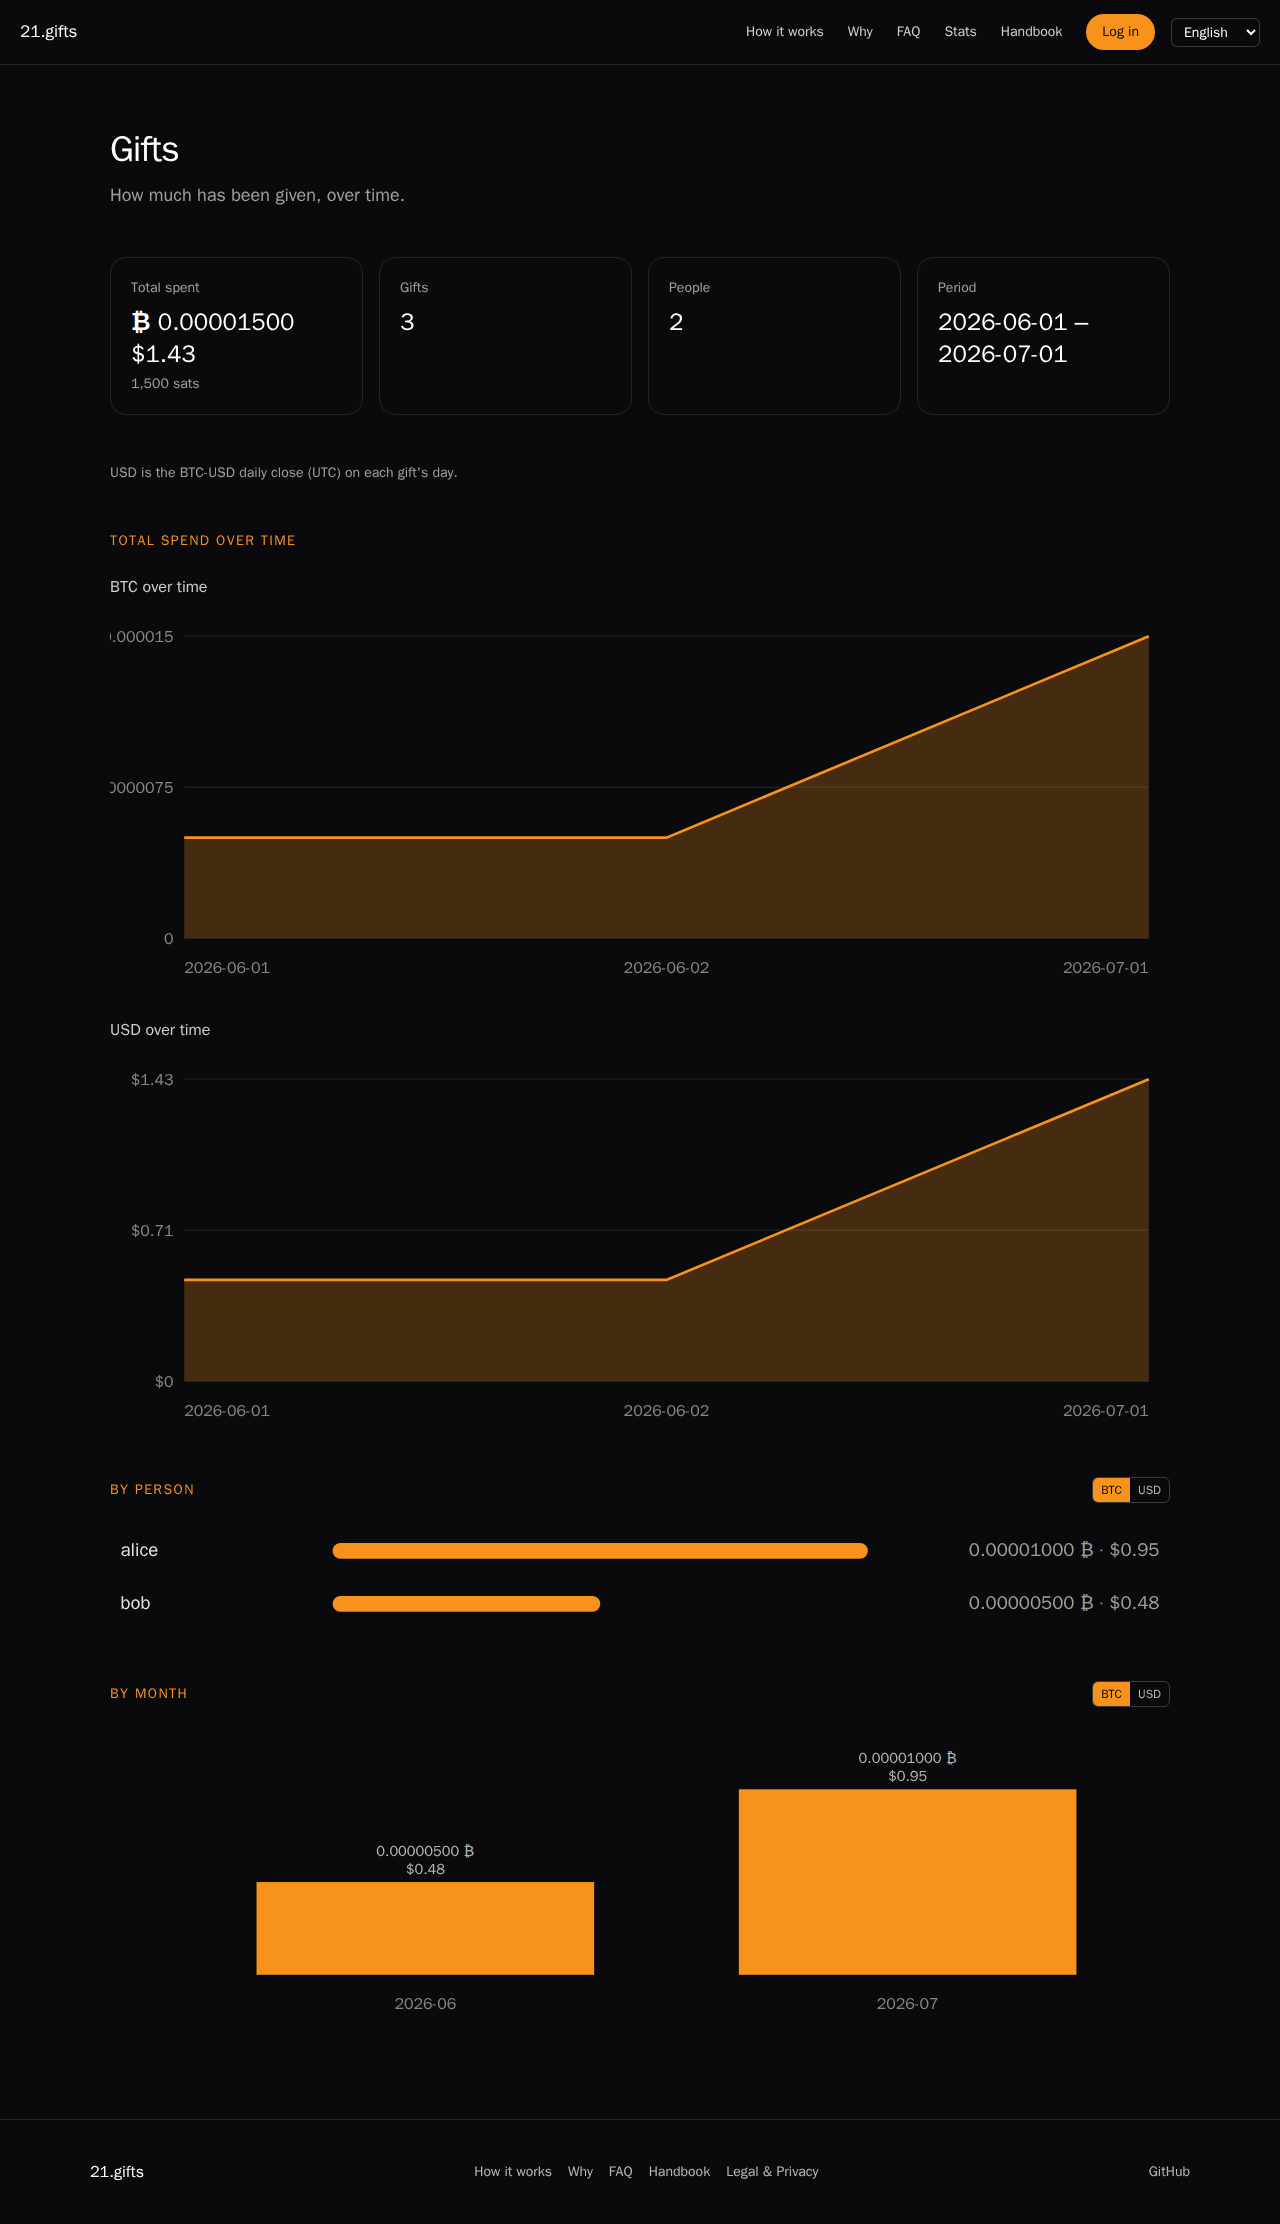
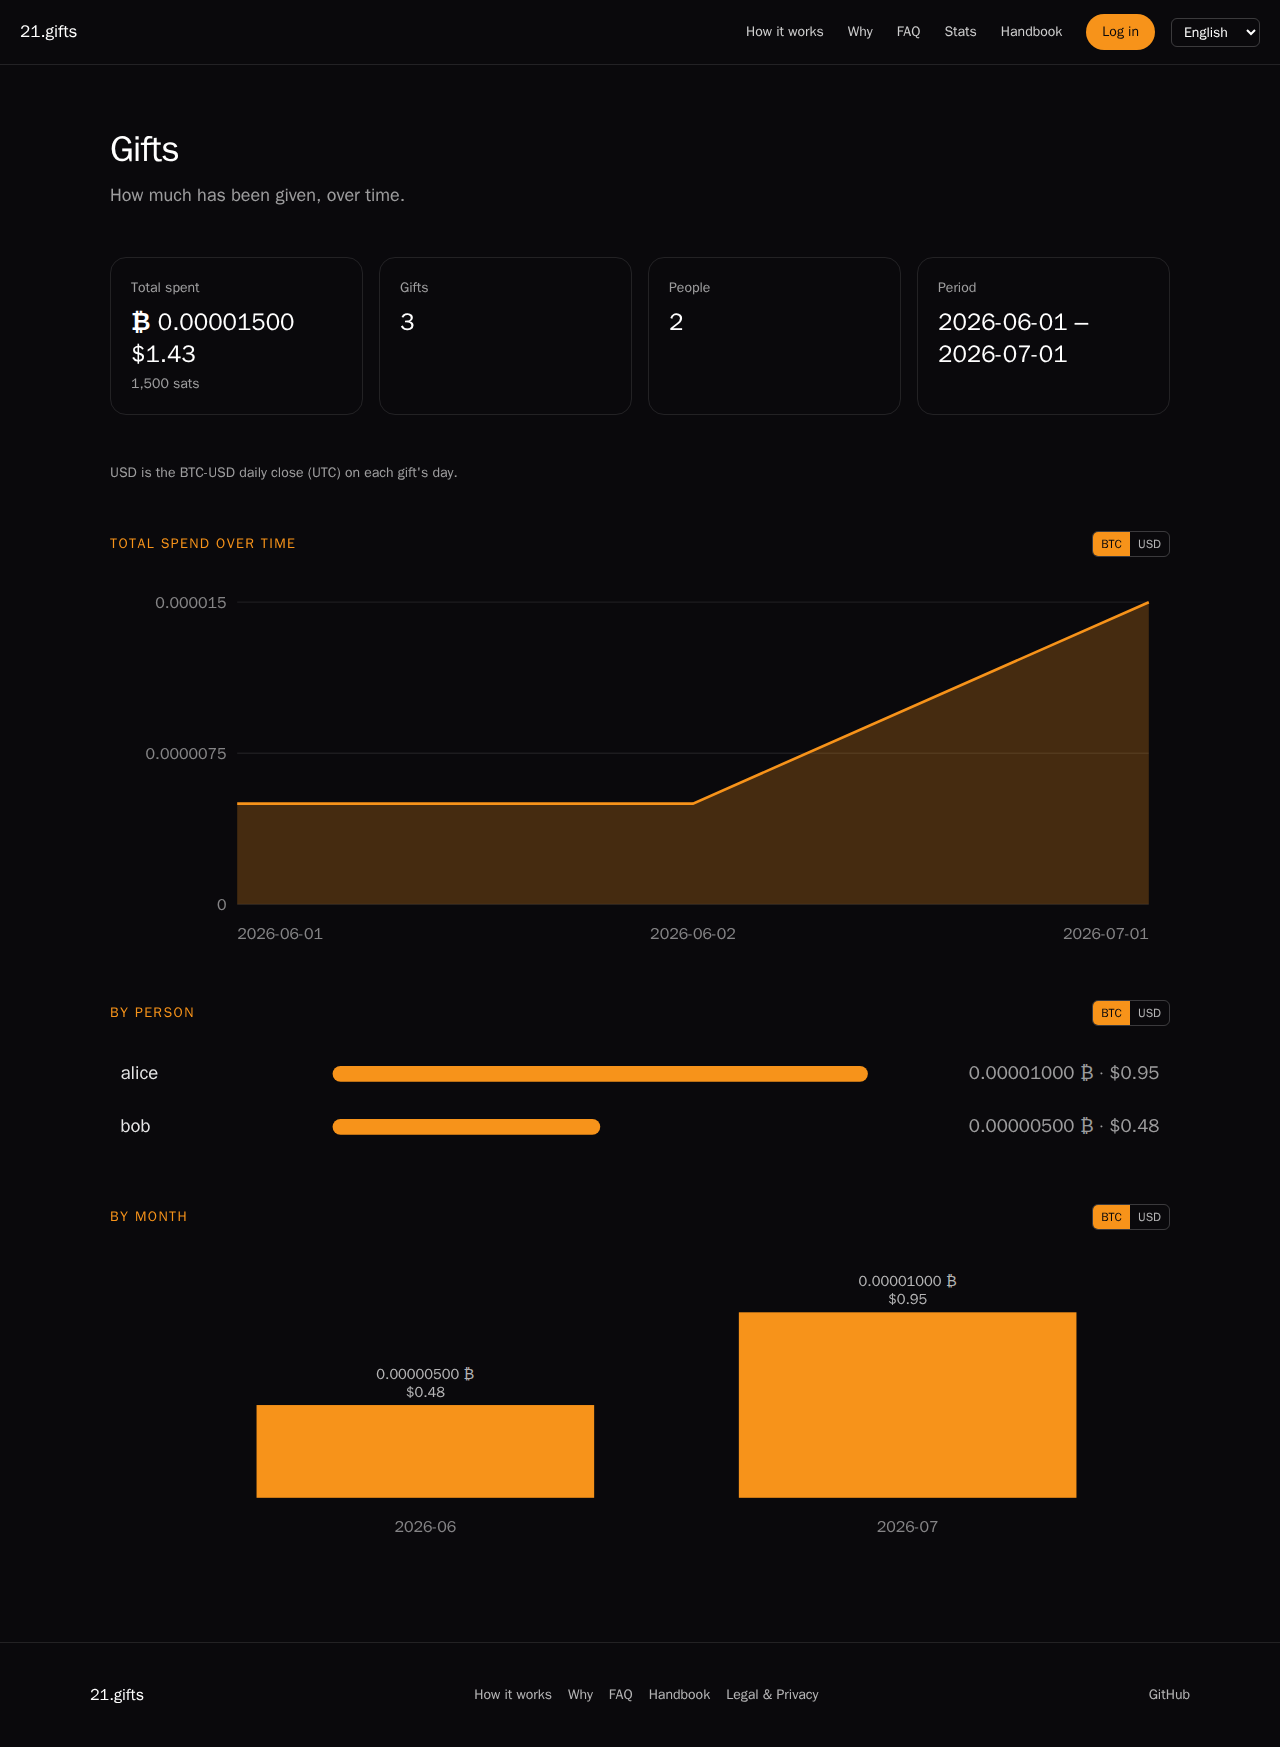
Add a BTC/USD scale toggle on the spend-over-time chart.

diff --git a/src/__tests__/components/StatsDashboard.test.tsx b/src/__tests__/components/StatsDashboard.test.tsx
@@ -117,8 +117,8 @@ describe('StatsDashboard', () => {
     };
     render(<StatsDashboard stats={odd} error={null} loading={false} onRetry={() => undefined} />);
     expect(screen.getByRole('heading', { name: 'Total spend over time' })).toBeTruthy();
-    expect(screen.getByLabelText('BTC over time')).toBeTruthy();
-    expect(screen.getByLabelText('USD over time')).toBeTruthy();
+    expect(screen.getByLabelText('Spend over time in BTC')).toBeTruthy();
+    expect(screen.queryByLabelText('Spend over time in USD')).toBeNull();
     expect(screen.getByLabelText('Spend by person in BTC')).toBeTruthy();
     expect(screen.getByLabelText('Spend by month in BTC')).toBeTruthy();
   });
@@ -148,8 +148,11 @@ describe('StatsDashboard', () => {
       ],
     };
     render(<StatsDashboard stats={two} error={null} loading={false} onRetry={() => undefined} />);
-    expect(screen.getAllByText('2026-06-01')).toHaveLength(2);
-    expect(screen.getAllByText('2026-06-02')).toHaveLength(2);
+    const svg = screen.getByLabelText('Spend over time in BTC');
+    expect(within(svg).getByText('2026-06-01')).toBeTruthy();
+    expect(within(svg).getByText('2026-06-02')).toBeTruthy();
+    expect(within(svg).getAllByText('2026-06-01')).toHaveLength(1);
+    expect(within(svg).getAllByText('2026-06-02')).toHaveLength(1);
   });
 
   it('renders KPIs, footnote, BTC/USD charts, and person labels', () => {
@@ -163,8 +166,8 @@ describe('StatsDashboard', () => {
       screen.getByText("USD is the BTC-USD daily close (UTC) on each gift's day."),
     ).toBeTruthy();
     expect(screen.getByText('Total spend over time')).toBeTruthy();
-    expect(screen.getByLabelText('BTC over time')).toBeTruthy();
-    expect(screen.getByLabelText('USD over time')).toBeTruthy();
+    expect(screen.getByLabelText('Spend over time in BTC')).toBeTruthy();
+    expect(screen.queryByLabelText('Spend over time in USD')).toBeNull();
     expect(screen.getByLabelText('Spend by person in BTC')).toBeTruthy();
     expect(screen.getByLabelText('Spend by month in BTC')).toBeTruthy();
     expect(screen.getByText('alice')).toBeTruthy();
@@ -175,7 +178,7 @@ describe('StatsDashboard', () => {
     render(
       <StatsDashboard stats={SAMPLE} error={null} loading={false} onRetry={() => undefined} />,
     );
-    const svg = screen.getByLabelText('BTC over time');
+    const svg = screen.getByLabelText('Spend over time in BTC');
     const first = [...svg.querySelectorAll('text')].find((el) => el.textContent === '2026-06-01');
     const last = [...svg.querySelectorAll('text')].find((el) => el.textContent === '2026-06-03');
     expect(first?.getAttribute('text-anchor')).toBe('start');
@@ -205,8 +208,13 @@ describe('StatsDashboard', () => {
       ],
     };
     render(<StatsDashboard stats={large} error={null} loading={false} onRetry={() => undefined} />);
-    expect(screen.getByLabelText('BTC over time').textContent).toContain('0.15');
-    expect(screen.getByLabelText('USD over time').textContent).toMatch(/\$14,250/);
+    expect(screen.getByLabelText('Spend over time in BTC').textContent).toContain('0.15');
+    fireEvent.click(
+      within(screen.getByRole('group', { name: 'Over time scale' })).getByRole('button', {
+        name: 'USD',
+      }),
+    );
+    expect(screen.getByLabelText('Spend over time in USD').textContent).toMatch(/\$14,250/);
   });
 
   it('does not duplicate the zero BTC y tick when the series is tiny', () => {
@@ -229,7 +237,7 @@ describe('StatsDashboard', () => {
       byMonth: [{ month: '2026-01', giftCount: 1, sats: 1, btc: '0.00000001', usd: '0.00' }],
     };
     render(<StatsDashboard stats={one} error={null} loading={false} onRetry={() => undefined} />);
-    const svg = screen.getByLabelText('BTC over time');
+    const svg = screen.getByLabelText('Spend over time in BTC');
     const zeros = [...svg.querySelectorAll('text')].filter((el) => el.textContent === '0');
     expect(zeros).toHaveLength(1);
     const maxLabels = [...svg.querySelectorAll('text')].filter(
@@ -237,7 +245,12 @@ describe('StatsDashboard', () => {
     );
     expect(maxLabels).toHaveLength(1);
     expect(Number(maxLabels[0]?.getAttribute('y'))).toBe(20);
-    const usdSvg = screen.getByLabelText('USD over time');
+    fireEvent.click(
+      within(screen.getByRole('group', { name: 'Over time scale' })).getByRole('button', {
+        name: 'USD',
+      }),
+    );
+    const usdSvg = screen.getByLabelText('Spend over time in USD');
     const usdTickTexts = [...usdSvg.querySelectorAll('text')].map((el) => el.textContent);
     expect(usdTickTexts.filter((t) => t === '$0')).toHaveLength(1);
     expect(usdTickTexts.some((t) => t === '$1' || t === '$0.5')).toBe(false);
@@ -369,5 +382,20 @@ describe('StatsDashboard', () => {
     expect(Number(personUsd[1]?.getAttribute('width'))).toBeGreaterThan(
       Number(personUsd[0]?.getAttribute('width')),
     );
+  });
+
+  it('switches over-time series independently of the month scale', () => {
+    render(
+      <StatsDashboard stats={SAMPLE} error={null} loading={false} onRetry={() => undefined} />,
+    );
+    expect(screen.getByLabelText('Spend over time in BTC')).toBeTruthy();
+    fireEvent.click(
+      within(screen.getByRole('group', { name: 'Over time scale' })).getByRole('button', {
+        name: 'USD',
+      }),
+    );
+    expect(screen.getByLabelText('Spend over time in USD')).toBeTruthy();
+    expect(screen.queryByLabelText('Spend over time in BTC')).toBeNull();
+    expect(screen.getByLabelText('Spend by month in BTC')).toBeTruthy();
   });
 });

diff --git a/src/components/StatsDashboard.tsx b/src/components/StatsDashboard.tsx
@@ -135,7 +135,7 @@ function CumulativeOverTimeChart(
       />
     );
   }
-  const padL = 56;
+  const padL = 96;
   const padR = 16;
   const padT = 16;
   const padB = 36;
@@ -370,12 +370,16 @@ function ByMonthChart(rows: GiftStats['byMonth'], scale: BarScale): ReactElement
 }
 
 /**
- * Non-empty charts branch with per-chart BTC/USD bar-scale state.
+ * Non-empty charts branch with independent BTC/USD scale state per diagram.
+ *
+ * Over time shows one cumulative series. Person and month bars rescale; their
+ * labels stay both units.
  *
  * @param stats - Loaded gift stats with at least one gift.
  * @returns Diagram sections.
  */
 function StatsCharts({ stats }: { stats: GiftStats }): ReactElement {
+  const [overTimeScale, setOverTimeScale] = useState<BarScale>('btc');
   const [personScale, setPersonScale] = useState<BarScale>('btc');
   const [monthScale, setMonthScale] = useState<BarScale>('btc');
 
@@ -385,24 +389,30 @@ function StatsCharts({ stats }: { stats: GiftStats }): ReactElement {
         {"USD is the BTC-USD daily close (UTC) on each gift's day."}
       </p>
       <section>
-        <h2 className="text-sm tracking-widest text-[#f7931a] uppercase">Total spend over time</h2>
-        <h3 className="mt-6 text-white/80">BTC over time</h3>
-        <div className="mt-4">
-          {CumulativeOverTimeChart(
-            stats.spendOverTime,
-            (p) => Number(p.cumulativeBtc),
-            formatBtcTick,
-            'BTC over time',
-          )}
+        <div className="flex items-center justify-between gap-3">
+          <h2 className="text-sm tracking-widest text-[#f7931a] uppercase">
+            Total spend over time
+          </h2>
+          <BarScaleToggle
+            value={overTimeScale}
+            onChange={setOverTimeScale}
+            groupLabel="Over time scale"
+          />
         </div>
-        <h3 className="mt-8 text-white/80">USD over time</h3>
-        <div className="mt-4">
-          {CumulativeOverTimeChart(
-            stats.spendOverTime,
-            (p) => Number(p.cumulativeUsd),
-            formatUsdTick,
-            'USD over time',
-          )}
+        <div className="mt-6">
+          {overTimeScale === 'btc'
+            ? CumulativeOverTimeChart(
+                stats.spendOverTime,
+                (p) => Number(p.cumulativeBtc),
+                formatBtcTick,
+                'Spend over time in BTC',
+              )
+            : CumulativeOverTimeChart(
+                stats.spendOverTime,
+                (p) => Number(p.cumulativeUsd),
+                formatUsdTick,
+                'Spend over time in USD',
+              )}
         </div>
       </section>
       <section>

diff --git a/e2e/functions.spec.ts b/e2e/functions.spec.ts
@@ -658,15 +658,19 @@ test('Function: formatUsdDisplay — empty stats hero shows $0.00', async ({ pag
 test('Function: formatBtcTick — populated stats draw the BTC chart', async ({ page }) => {
   await stubGiftStats(page, POPULATED_STATS);
   await page.goto('/stats');
-  await expect(page.getByLabel('BTC over time')).toBeVisible();
-  await expect(page.getByLabel('BTC over time').getByText('0.000015')).toBeVisible();
+  await expect(page.getByLabel('Spend over time in BTC')).toBeVisible();
+  await expect(page.getByLabel('Spend over time in BTC').getByText('0.000015')).toBeVisible();
 });
 
 test('Function: formatUsdTick — populated stats draw the USD chart', async ({ page }) => {
   await stubGiftStats(page, POPULATED_STATS);
   await page.goto('/stats');
-  await expect(page.getByLabel('USD over time')).toBeVisible();
-  await expect(page.getByLabel('USD over time').getByText('$1.43')).toBeVisible();
+  await page
+    .getByRole('group', { name: 'Over time scale' })
+    .getByRole('button', { name: 'USD' })
+    .click();
+  await expect(page.getByLabel('Spend over time in USD')).toBeVisible();
+  await expect(page.getByLabel('Spend over time in USD').getByText('$1.43')).toBeVisible();
 });
 
 test('Function: proxyAuthPasskeyRegisterBeginPost — POST begin returns a challenge', async ({

diff --git a/e2e/handbook-capture.spec.ts b/e2e/handbook-capture.spec.ts
@@ -347,6 +347,10 @@ test('stats usd-scale', async ({ page }) => {
   });
   await page.goto('/stats');
   await page
+    .getByRole('group', { name: 'Over time scale' })
+    .getByRole('button', { name: 'USD' })
+    .click();
+  await page
     .getByRole('group', { name: 'By person bar scale' })
     .getByRole('button', { name: 'USD' })
     .click();

diff --git a/docs/handbook/screens.md b/docs/handbook/screens.md
@@ -35,19 +35,19 @@ The only state: imprint plus privacy, marketing chrome.
 ## Screen: /stats
 
 - **URL:** `/stats` — public gift totals (no auth gate).
-- **What the user sees:** Dark 21.gifts header with a language switcher, heading **Gifts**, four KPI cards (total spent in **BTC** and **USD** with a sats caption, gifts, people, period), then diagrams: **Total spend over time** (cumulative BTC and USD charts), **By person** and **By month** (each with a BTC/USD control that defaults to BTC and rescales bar size while labels stay both units). Empty database copy: **No gifts recorded yet.** Stats body copy stays English.
-- **Actions:** Change language. Read the charts. Switch **By person** / **By month** bar scale between BTC and USD. Header **Stats** stays on this page; **Log in** goes to `/login`.
+- **What the user sees:** Dark 21.gifts header with a language switcher, heading **Gifts**, four KPI cards (total spent in **BTC** and **USD** with a sats caption, gifts, people, period), then diagrams: **Total spend over time** (one cumulative chart), **By person** and **By month**. Each diagram has a BTC/USD control that defaults to BTC; over time switches the series, person and month rescale bar size while labels stay both units. Empty database copy: **No gifts recorded yet.** Stats body copy stays English.
+- **Actions:** Change language. Read the charts. Switch **Total spend over time** / **By person** / **By month** between BTC and USD. Header **Stats** stays on this page; **Log in** goes to `/login`.
 - **Calls:** `StatsPage`, `StatsLoader`, `StatsDashboard`, `fetchGiftStats` (same-origin `GET /gifts/stats`), `LanguageSwitcher`.
 
 ### Variant: default
 
-Loaded stats with the cumulative BTC and USD charts visible. Bar scale defaults to BTC.
+Loaded stats with one cumulative over-time chart visible. Scale defaults to BTC.
 
 ![21.gifts stats](images/stats.png)
 
 ### Variant: usd-scale
 
-Inverted ranking fixture (June tall in BTC / short in USD, July the reverse). Bar scale switched to USD on **By person** and **By month**.
+Inverted ranking fixture (June tall in BTC / short in USD, July the reverse). Scale switched to USD on **Total spend over time**, **By person**, and **By month**.
 
 ![21.gifts stats USD scale](images/stats-usd-scale.png)
 

diff --git a/docs/handbook/functions.md b/docs/handbook/functions.md
@@ -59,7 +59,7 @@
 
 ## Function: StatsDashboard
 
-- **Purpose:** Renders gift KPIs (BTC + USD totals with a sats caption) and SVG diagrams (cumulative BTC, cumulative USD, by person, by month), plus loading/error/empty states. Each of **By person** and **By month** has a BTC/USD control (default BTC) that rescales bar size while labels stay both units.
+- **Purpose:** Renders gift KPIs (BTC + USD totals with a sats caption) and SVG diagrams (cumulative spend over time, by person, by month), plus loading/error/empty states. Each of **Total spend over time**, **By person**, and **By month** has a BTC/USD control (default BTC). Over time shows one cumulative series. Person and month rescale bar size while labels stay both units.
 - **Inputs:** `stats`, `error`, `loading`, `onRetry`.
 - **Returns / side effects:** React element. No network.
 - **Used by:** `StatsLoader`.
